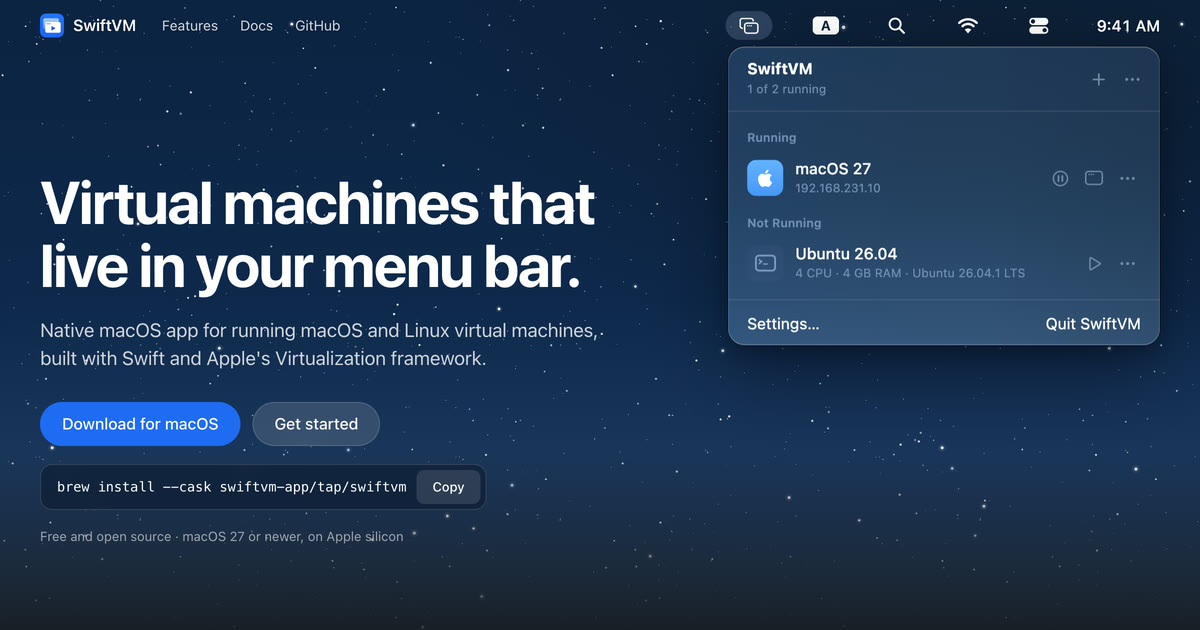
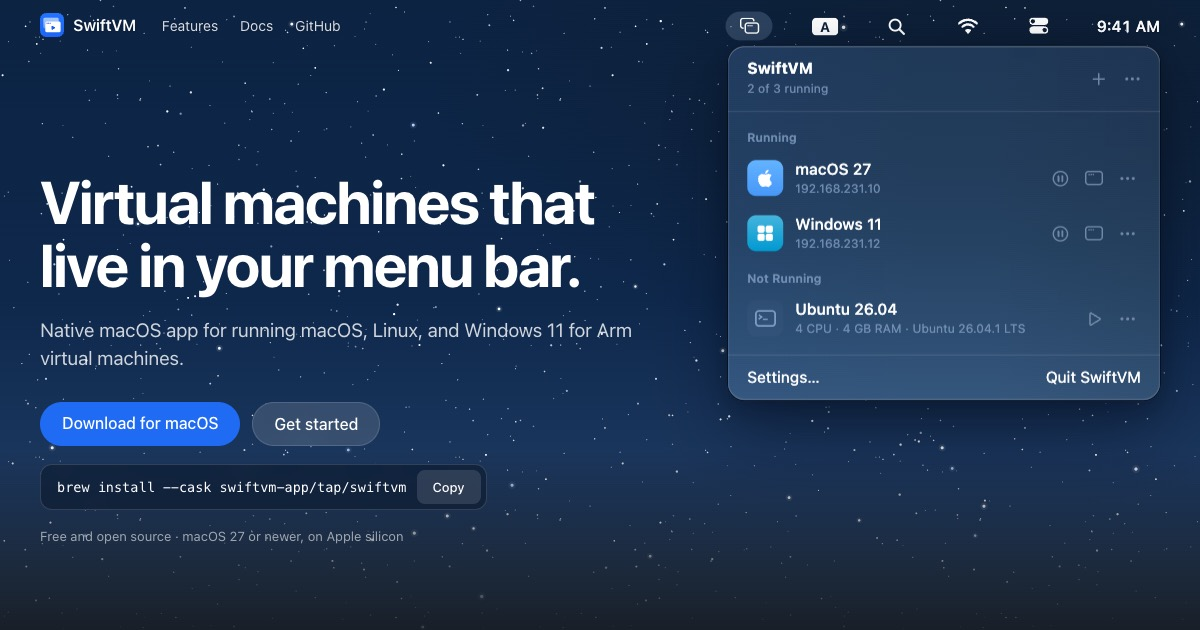
Highlight Windows support on the website and refresh the social preview

diff --git a/website/src/assets/panel.js b/website/src/assets/panel.js
@@ -4,7 +4,7 @@
 
 export const appName = 'SwiftVM'
 
-/** The machines the hero starts with: the two in the screenshot it is made after. */
+/** The machines the hero starts with: the two in the screenshot it is made after, and a Windows guest. */
 export function initialMachines() {
     return [
         {
@@ -26,6 +26,16 @@ export function initialMachines() {
             address: '192.168.231.11',
             hardware: '4 CPU · 4 GB RAM',
             summary: 'Ubuntu 26.04.1 LTS',
+        },
+        {
+            id: 'windows-11',
+            name: 'Windows 11',
+            os: 'windows',
+            family: 'Windows',
+            state: 'running',
+            address: '192.168.231.12',
+            hardware: '4 CPU · 8 GB RAM',
+            summary: 'Windows 11',
         },
     ]
 }
@@ -165,7 +175,7 @@ function symbolButton(action, symbolName, help, label, attributes = '') {
 
 /** A machine's tile: in the system's colour while it holds a guest, without colour while it doesn't. */
 function badge(os, isLit, isPulsing = false) {
-    const glyph = os === 'macos' ? 'apple' : 'terminal'
+    const glyph = { macos: 'apple', windows: 'grid' }[os] ?? 'terminal'
     return `<span class="pn-badge pn-badge-${os}${isLit ? ' is-lit' : ''}${isPulsing ? ' is-pulsing' : ''}">${symbol(glyph)}</span>`
 }
 

diff --git a/website/src/home.html b/website/src/home.html
@@ -34,6 +34,9 @@
             <path d="M10 12.2l2.1 1.55L10 15.3" stroke-width="1.3"/><path d="M13.7 15.75h2.9" stroke-width="1.2"/>
         </g>
     </symbol>
+    <symbol id="symbol-grid" viewBox="0 0 30 30">
+        <g fill="currentColor"><rect x="8.6" y="8.6" width="6" height="6" rx="1.7"/><rect x="15.4" y="8.6" width="6" height="6" rx="1.7"/><rect x="8.6" y="15.4" width="6" height="6" rx="1.7"/><rect x="15.4" y="15.4" width="6" height="6" rx="1.7"/></g>
+    </symbol>
     <symbol id="symbol-windows" viewBox="0 0 16 13.5">
         <mask id="symbol-windows-back"><rect width="16" height="13.5" fill="#fff"/><rect x="3" y="3.1" width="14" height="12" rx="3" fill="#000"/></mask>
         <g fill="none" stroke="currentColor" stroke-width="1.2">

diff --git a/website/src/assets/home.css b/website/src/assets/home.css
@@ -505,6 +505,11 @@
     background: linear-gradient(180deg, light-dark(#ff6961, #ff7a70), light-dark(#ff3b30, #f9493e));
 }
 
+/* A fixed colour, not a system one, so the same in both appearances. */
+.pn-badge-windows.is-lit {
+    background: linear-gradient(180deg, #45b4dd, #0099d1);
+}
+
 .pn-badge.is-pulsing {
     animation: pulse 0.7s ease-in-out infinite alternate;
 }
